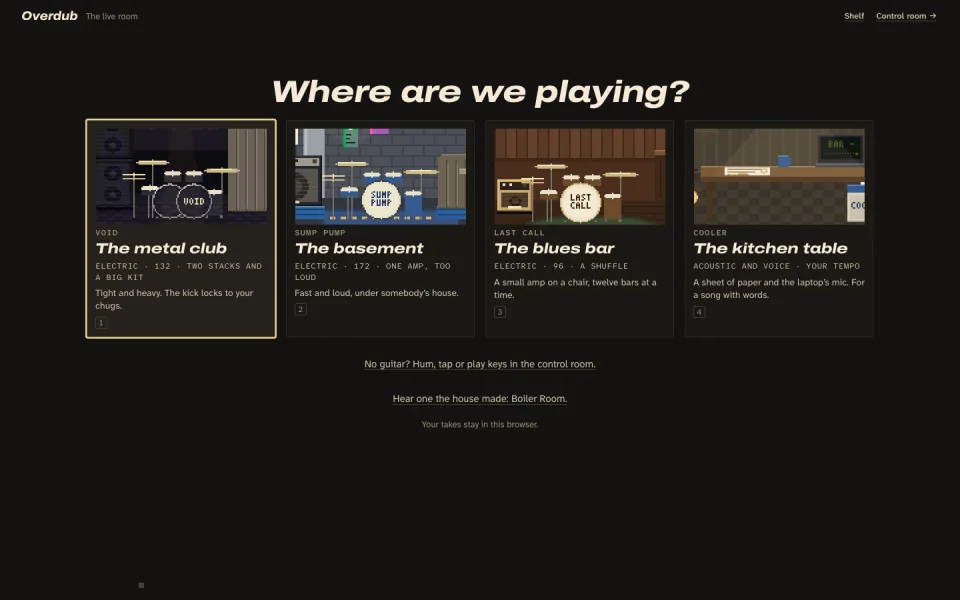
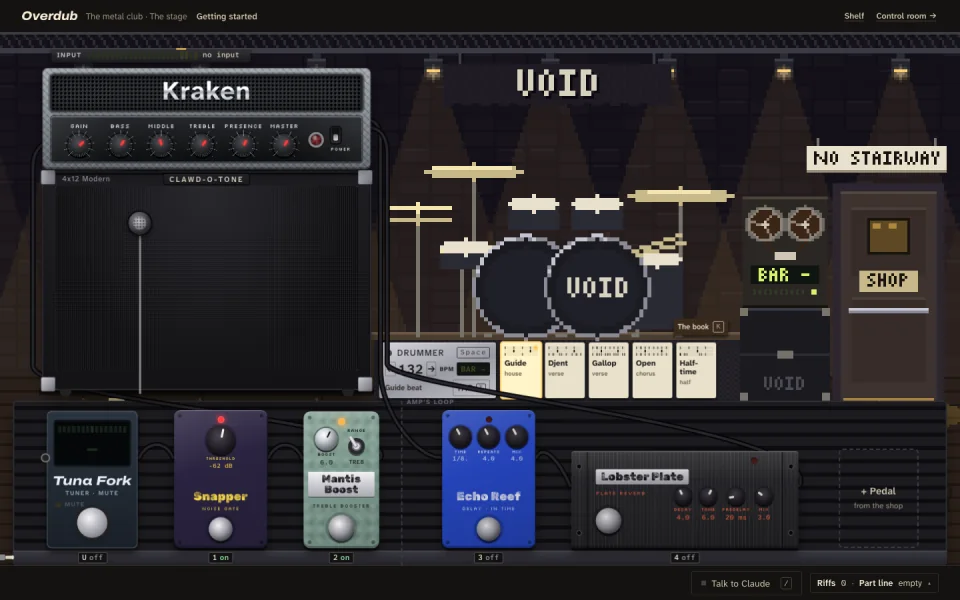
Guide, README and the landing: the guitar room, as it is
The guide still told a musician about four places, the soundcheck column, Lay it out and a band that learns the
take, none of which the door offers now. Its live room section is the guitar room's: the stage and its gear, the
camera, Getting started, the drummer, takes and the part line, the tape and the riffs, Claude on the talkback and the
shop, with the keys the room declares. The README's paragraph says the same in short. The landing's live room
picture was the door with four places; tools/shots.js now walks through the door into the club (ONLY=liveroom shoots
that alone), and the picture, its alt text and caption are the stage.

diff --git a/site/docs/guide.html b/site/docs/guide.html
@@ -45,7 +45,7 @@
       <summary>On this page</summary>
       <nav aria-label="On this page"><ol>
 <li><a href="#your-first-overdub-in-five-minutes">Your first overdub in five minutes</a></li>
-<li><a href="#the-live-room">The live room</a><ol><li><a href="#on-the-stage">On the stage</a></li><li><a href="#the-talkback">The talkback</a></li><li><a href="#the-kitchen-table">The kitchen table</a></li><li><a href="#the-shelf-and-sending">The shelf and sending</a></li></ol></li>
+<li><a href="#the-live-room">The live room</a><ol><li><a href="#the-stage">The stage</a></li><li><a href="#the-drummer">The drummer</a></li><li><a href="#takes-and-the-part-line">Takes and the part line</a></li><li><a href="#the-tape-the-riffs-and-claude">The tape, the riffs and Claude</a></li><li><a href="#the-shop">The shop</a></li><li><a href="#the-shelf-and-sending">The shelf and sending</a></li></ol></li>
 <li><a href="#start-a-song">Start a song</a></li>
 <li><a href="#flip-a-song">Flip a song</a></li>
 <li><a href="#find-anything">Find anything</a></li>
@@ -126,66 +126,62 @@ agent gave. <code>⌘Z</code> undoes the latest edit.
 <strong>Revert all Claude's changes (keep mine)</strong> takes back everything the agent did and leaves your edits alone, and
 <code>⇧⌘Z</code> puts it back, as it does after <strong>Undo</strong> on one of the agent's lines there.</p>
 <h2 id="the-live-room"><a class="h-link" href="#the-live-room">The live room</a></h2>
-<p>The live room is the other side of the glass: you bring a guitar (or an acoustic and your voice), pick a place, count
-in and play, and a band learns your part from the take. Everything in it is the same song, signed the same way:
-<strong>Control room →</strong> at the top right (or <code>G</code>) goes through the glass to the arranger with the song as it is, and <code>G</code>
-in the control room comes back. Your takes stay in this browser.</p>
-<p><strong>Where are we playing?</strong> The door has four places, each with its own band, tempo and amp, drawn in pixels with the
-kick drum's name on it. <code>1</code> to <code>4</code> picks one.</p>
-<ul>
-<li><strong>The metal club</strong> (VOID): an electric at 132 BPM, two stacks and a big kit; the kick locks to your chugs.</li>
-<li><strong>The basement</strong> (SUMP PUMP): an electric at 172 BPM, one amp, fast and loud, with a two-bar count.</li>
-<li><strong>The blues bar</strong> (LAST CALL): an electric at 96 BPM, a small amp and a shuffle, twelve bars at a time.</li>
-<li><strong>The kitchen table</strong> (COOLER): an acoustic and your voice, on the laptop's mic, at your tempo.</li>
-</ul>
-<h3 id="on-the-stage"><a class="h-link" href="#on-the-stage">On the stage</a></h3>
-<ol>
-<li><strong>Soundcheck.</strong> The column beside the stage says what it heard: <strong>Plug in</strong> (an electric wants an interface; the
-laptop's mic is fine at the kitchen table), <strong>Level</strong>, <strong>Tune</strong> (<code>U</code>) and <strong>Line it up</strong> (strum on each of eight
-clicks, so your takes land on the drums). <code>[</code> and <code>]</code> step through the amp's settings. Before the first take,
-<code>←</code> <code>→</code> move the drummer's tempo (<code>⇧</code> for ten), and <code>T</code> four times taps it.</li>
-<li><strong>Count me in.</strong> <code>Space</code> counts you in and the tape rolls. Play the part as many times round as you like; <code>Space</code>
-again is <em>That's a take</em>. It lands as a part (a verse, say), and the talkback says what went in (&quot;Verse is in: 8
-bars at 132. The band's learning it.&quot;): the drums and bass learn its rhythm and its notes, and play it back with
-you. <code>⌘Z</code> takes the take and the band's learning out together; <code>⇧⌘Z</code> puts both back.</li>
-<li><strong>The other side.</strong> A heavy part is played twice, once per speaker. At the metal club, after each part's first
-take, <code>Space</code> offers <em>The other side</em>; at the basement it's offered once, after the second part. <code>D</code> plays the
-other side of the selected part at either, and you play it again.</li>
-<li><strong>Next part.</strong> <code>N</code>, or <strong>+ Next part</strong> under the cards, counts you into the next one (a chorus, then a bridge).
-Once a part is in, <code>Space</code> offers <em>Next part</em> too.</li>
-<li><strong>Lay it out.</strong> Once two parts are in, <code>Space</code> offers <em>Lay it out</em>: the parts as a song, with how many bars and
-how long. <strong>Hear it all</strong> (<code>Home</code> then <code>Enter</code>) plays it top to bottom; <code>Enter</code> alone plays from the selected card.</li>
-</ol>
-<p>Each part is a card. <code>←</code> <code>→</code> select one (after the first take), <code>↑</code> <code>↓</code> pick which of its takes plays, and its menu
-has, one step each: <strong>Again</strong> (<code>R</code>), <strong>The other side</strong> (<code>D</code>, not at the blues bar), <strong>Another feel</strong> (<code>F</code>),
-<strong>Simpler</strong> · <strong>Busier</strong>, <strong>Softer</strong> · <strong>Louder</strong>, <strong>×2</strong> (<code>X</code>), <strong>Round and round</strong> (<code>L</code>, the part on a loop:
-<code>Space</code> hears it, <code>R</code> records it), <strong>Earlier</strong> · <strong>Later</strong> (<code>⌥←</code> · <code>⌥→</code>) and <strong>Remove</strong> (<code>⌫</code>; <code>⌘Z</code> brings it back).
-<code>Esc</code> in a take is <em>Not that one</em>: nothing goes in the song, and it's in Capture; <code>⇧R</code> puts it in after all.</p>
-<p>A page-turner pedal works the stage: <code>PageDown</code> is the offered move (the same as <code>Space</code>) and <code>PageUp</code> is <strong>Again</strong>.
-So does a sustain pedal on a MIDI keyboard (CC 64), as <code>Space</code>, while no instrument track is armed.</p>
-<h3 id="the-talkback"><a class="h-link" href="#the-talkback">The talkback</a></h3>
-<p>The line under the stage is the house talking, unsigned. <code>/</code> talks to Claude: what you type goes to the agent, and
-what it says back comes through the talkback, signed <strong>Claude</strong>, in cool. While you're playing a take, Claude's tools
-wait until you stop.</p>
-<h3 id="the-kitchen-table"><a class="h-link" href="#the-kitchen-table">The kitchen table</a></h3>
-<p>The kitchen table records an acoustic and your voice on one mic (the laptop's, a mic on the interface, or a mic and a
-pickup). It asks whether you're on headphones (<code>Y</code> · <code>N</code>): on speakers the band never plays during a take.</p>
-<ul>
-<li><strong>The paper.</strong> A sheet of words and chords, typed or pasted (ChordPro, or chords over the words), one line at a
-time; the pencil tick follows the playhead. Each line is signed by whoever wrote it; yours and the house's carry no
-name.</li>
-<li><strong>The work tape.</strong> <strong>Start the tape</strong> (<code>Space</code>) and play the song as you would at the table, at your own time. The
-band reads it: the tempo (<strong>On the beat</strong> keeps it), the parts and the chords. On headphones, <strong>Count me in</strong> gives
-one bar of sticks and a shaker on the song's time instead.</li>
-<li><strong>The players.</strong> Then the band is offered one player at a time, where each would play: <strong>A shaker in the chorus</strong>,
-<strong>The cajón under the verses</strong>, <strong>The bass from the first chorus</strong>, <strong>Strings in the bridge</strong>. <strong>Keep it</strong> or
-<strong>No thanks</strong>. <code>↑</code> <code>↓</code> hear the takes, and <strong>Use this one</strong> picks the master.</li>
-</ul>
+<p>The live room is the other side of the glass: you bring a guitar and an interface, the stage is the screen, and the
+rig on it is the song's. Everything in it is the same song, signed the same way: <strong>Control room →</strong> at the top right
+(or <code>⌘G</code>) goes through the glass to the arranger with the song as it is, and <code>G</code> in the control room comes back. Your
+takes stay in this browser.</p>
+<p><strong>Where are we playing?</strong> The door offers the metal club (VOID: an electric at 132 BPM, one stack and a big kit),
+and the control room for anyone without a guitar. <code>1</code> walks in.</p>
+<h3 id="the-stage"><a class="h-link" href="#the-stage">The stage</a></h3>
+<p>The screen is the stage seen from the front, and everything on it is a real control: the amp head on its cab (turn a
+knob: drag it, scroll it, or focus it and use the arrow keys; double-click puts it back), the pedalboard along the
+front (<code>1</code>–<code>8</code> stomp the pedals, a drag along the board reorders them, × puts one back in the case, <strong>+ Pedal</strong> opens
+the shop's case), the input meter on the head, the drummer on the riser and the tape machine by the door. Every change
+is one step by you on both sides of the stack, and <code>⌘Z</code> takes it back. Edits go to this song's copy of the stack;
+nothing goes to the rack unless you say so.</p>
+<p>The camera goes closer: <code>H</code> the head (every knob), <code>C</code> the cab (which cab, the mics on the cones, their distance and
+angle, a second mic), <code>K</code> the kit and the drummer's book, <code>B</code> the board, <code>U</code> the tuner, <code>G</code> the tape. <code>Esc</code> steps back
+one at a time, and never further than the stage.</p>
+<p><strong>Getting started</strong> (the button at the top) comes up by itself the first time, in the room: <strong>Plug in</strong> (the cable
+goes into the first pedal's jack, and the meter on the head wants your hardest strum between −12 and −6 dBFS),
+<strong>Tune</strong> (Tuna Fork, first on the board: <code>U</code> stomps it and mutes you while it's on), <strong>Timing</strong> (the drummer clicks
+their sticks eight times and you strum on each, so takes land on the beat), <strong>Your sound</strong> (keep the club's stack, or
+go through the door), and a short tour. <code>Esc</code> pauses it; the button carries on where you left it.</p>
+<h3 id="the-drummer"><a class="h-link" href="#the-drummer">The drummer</a></h3>
+<p><code>Space</code> starts the drummer and stops them: a plain guide beat by default, played where the song has no drums of its
+own, never kept. The beat cards on the riser are this song's few (<code>[</code> <code>]</code> or a click picks one); <code>K</code> opens the book,
+every groove the drummer knows, where you edit the cards on the riser, pin a new one or play one now. <code>←</code> <code>→</code> move
+the tempo (<code>⇧</code> for ten) until there's a take, and <code>T</code> taps it. Nothing else plays unless you ask: no bass, no fills.</p>
+<h3 id="takes-and-the-part-line"><a class="h-link" href="#takes-and-the-part-line">Takes and the part line</a></h3>
+<p><code>R</code> records the selected part, or a new one at the end, counted in by a bar of sticks (<code>⇧K</code> turns the count-in off).
+The room dims and says what's happening: <code>Space</code> stops, <code>R</code> starts again, <code>Esc</code> tosses it. A take doesn't stop at the
+part's end: play past it, and what rings on is kept under the next part. Then it plays back once: <strong>Keep</strong> (<code>Enter</code>),
+<strong>Toss</strong> (<code>⌫</code>) or <strong>Again</strong> (<code>R</code>), and the handles trim it on the bar grid. <code>↑</code> <code>↓</code> pick which kept take plays. <code>D</code>
+records the other side of the part on the same rig, against your first, and Keep plays both, wide.</p>
+<p>The part line (<code>L</code> puts it up over the board) is the song in order: <code>Enter</code> plays from the selected part, <code>Home</code> from the top,
+<code>N</code> adds a part after it and <code>⇧N</code> one before (an intro), <code>⌥←</code> <code>⌥→</code> or a drag move it, <code>⌫</code> deletes it, and <code>⌘Z</code> puts
+any of it back. Played top to bottom, the song puts <strong>Send</strong> at the top.</p>
+<h3 id="the-tape-the-riffs-and-claude"><a class="h-link" href="#the-tape-the-riffs-and-claude">The tape, the riffs and Claude</a></h3>
+<p>The tape is always rolling, quietly: a faint line at the left of the drawer <code>L</code> puts up. When something was the one, <code>G</code> (or the
+tape machine) opens the last minute on the drummer's bar lines with the last thing you played picked; the handles
+trim it (<code>B</code> snaps them to bars), and <code>Enter</code> keeps it as a riff. Riffs go in the tray beside the part line: a click
+hears one through your rig, a drag puts it on the part line, <code>Enter</code> puts it after the selected part. <code>⇧L</code> is the
+library, every song's riffs, each tagged with its song, to search and filter.</p>
+<p><code>/</code> talks through the glass to the agent you started in the control room: what you type goes to Claude, and what it
+says back comes through the talkback, signed <strong>Claude</strong>, in cool. When Claude is connected from outside (claude.ai or
+Claude Code), the header says so and what it says comes through the talkback the same way. Whatever it changes is
+signed too, one step <code>⌘Z</code> takes back.</p>
+<h3 id="the-shop"><a class="h-link" href="#the-shop">The shop</a></h3>
+<p>The door under NO STAIRWAY (<code>S</code>) is the shop: the amp wall in sections (clean, crunch, weird, high gain, bass; <code>A</code>),
+the pedal case in drawers by type (<code>P</code>, <code>[</code> <code>]</code> between drawers), and your stack big in the try-out corner (<code>H</code> the
+head, <code>C</code> the cab). Look at something to read its card; hold the look and you're hearing it; a click or <code>Enter</code>
+carries it onto your stack. <strong>Save to rack</strong> keeps a stack under a name, and the rack loads one back into the song in
+one step (the song keeps its own copy). <code>S</code> goes back to the stage.</p>
 <h3 id="the-shelf-and-sending"><a class="h-link" href="#the-shelf-and-sending">The shelf and sending</a></h3>
 <p><strong>Shelf</strong> at the top right shows the room's songs as tape boxes, newest first, each with its label, its parts, its
 day and its engineer's note. The die on an untitled box offers three titles. A box opens its song on the stage, and
 <strong>Take it off the shelf</strong> asks first.</p>
-<p><strong>Send</strong> (on a box, or <strong>Send a mix</strong> at the kitchen table) has two choices. <strong>Send a mix</strong> is the song as a WAV,
+<p><strong>Send</strong> (on a box, or at the top once the song's been heard top to bottom) has two choices. <strong>Send a mix</strong> is the song as a WAV,
 through your device's share sheet where it has one, else a download. <strong>Send the song</strong> is one <code>.overdub.zip</code>: the
 song and its recordings. <code>⌘O</code> opens it again, here or in another browser, and puts the recordings back; it's also
 the shelf's backup. There's no share link from the room: a link carries the notes and the devices and leaves your

diff --git a/tools/shots.js b/tools/shots.js
@@ -3,8 +3,9 @@
 //   rack.webp     the rack close up, ending on Claude's Tidal Cathedral (an agent-built device face)
 //   sketch.webp   the Sketch panel after a (fake-mic) hum of A3 C4 E4: the spiral and the notes it wrote
 //   history.webp  the History panel after a few edits by you and by Claude: warm is you, cool is the agent
-//   liveroom.webp the live room's door, Where are we playing?, the first screen a first visit sees (?room)
+//   liveroom.webp the live room: the metal club's stage (the guitar room), walked into from the door (?room)
 // Each is written at 1440 and 960 wide (name.webp, name-960.webp) into site/assets/, and kept under ~400 KB.
+// ONLY=liveroom (or studio, sketch: comma-separated) shoots just those.
 // Needs ffmpeg or cwebp on PATH. Raw PNGs land in tools/.out/shots/.
 import fs from 'node:fs';
 import path from 'node:path';
@@ -68,8 +69,10 @@ async function boot(opts = {}, layout = null) {
 const shot = async (page, name, clip) => { const f = path.join(RAW, name + '.png'); await page.screenshot({ path: f, clip }); return f; };
 
 const errs = [];
+const ONLY = (process.env.ONLY || '').split(',').map((x) => x.trim()).filter(Boolean);
+const want = (k) => !ONLY.length || ONLY.includes(k);
 // ---- (a) the whole studio, (b) the rack, (d) history
-{
+if (want('studio')) {
   const { page, browser, url, errors, close } = await boot({}, { leftW: 236, rightW: 400, bottomH: 330, open: { left: false, right: true, bottom: true }, tabs: {} });
   // The demo agent (scripted, real tools) takes a turn so the agent panel shows real work. Optional: skip if it stalls.
   const said = await page.evaluate(async () => {
@@ -134,7 +137,7 @@ const errs = [];
   await close();
 }
 // ---- (c) Sketch, after a hum through the fake mic
-{
+if (want('sketch')) {
   const wav = path.join(RAW, 'hum.wav');
   const secs = humWav(wav);
   const { page, errors, close } = await boot({ fakeAudio: wav }, { leftW: 236, rightW: 380, bottomH: 470, open: { left: false, right: true, bottom: true }, tabs: {} });
@@ -150,12 +153,16 @@ const errs = [];
   errs.push(...errors);
   await close();
 }
-// ---- (e) the live room's door (?room opens it on a new song, under webdriver too)
-{
+// ---- (e) the live room: through the door (?room opens it on a new song, under webdriver too) into the metal club,
+// the stage as it stands (Getting started comes up by itself only in a visitor's browser, never under webdriver)
+if (want('liveroom')) {
   const { page, errors, close } = await open('/app/', { width: 1440, height: 900, query: 'room' });
   await page.waitForSelector('html[data-ready="1"]', { timeout: 30000 });
   await page.waitForFunction(() => window.overdub?.liveRoom?.isOpen?.() && document.querySelector('.lrd-crop'), null, { timeout: 20000 });
-  await page.waitForTimeout(1200);
+  await page.waitForTimeout(600);
+  await page.keyboard.press('Digit1');
+  await page.waitForFunction(() => window.overdub.ui.state.liveRoom.screen === 'guitar' && document.querySelector('.gr-r-head'), null, { timeout: 20000 });
+  await page.waitForTimeout(1500);
   encode('liveroom', await shot(page, 'liveroom'));
   errs.push(...errors);
   await close();

diff --git a/site/index.html b/site/index.html
@@ -88,10 +88,10 @@
 <section class="studio" aria-labelledby="studio-title">
   <div class="wrap">
     <h2 id="studio-title" class="sec-title">This is the studio, running.</h2>
-    <p class="section-lede">Every picture here is a screenshot of Overdub as it runs today. It opens in the live room, where you pick a place and play; the control room behind it, here open on Night Shift, the first of the fifteen songs it ships with, is one press away. It runs in your browser, on a computer or a phone, with nothing to install.</p>
+    <p class="section-lede">Every picture here is a screenshot of Overdub as it runs today. It opens in the live room, where you walk onto a stage and play; the control room behind it, here open on Night Shift, the first of the fifteen songs it ships with, is one press away. It runs in your browser, on a computer or a phone, with nothing to install.</p>
     <figure class="shot shot--main">
-      <div class="shot-frame"><picture><source type="image/webp" srcset="/site/assets/liveroom-960.webp 960w, /site/assets/liveroom.webp 1440w" sizes="(max-width: 1180px) 100vw, 1100px"><img src="/site/assets/liveroom.webp" width="1440" height="900" alt="The live room's door: Where are we playing? Four places drawn in pixels, each with its kick drum's name: the metal club (VOID), the basement (SUMP PUMP), the blues bar (LAST CALL) and the kitchen table (COOLER), and under them a link to hum, tap or play keys in the control room" loading="lazy" decoding="async"></picture></div>
-      <figcaption>The first screen: the live room. Three places for an electric guitar and a kitchen table for an acoustic and your voice. You count in, play your part round as long as you like, and the band learns it from the take. The control room is one press away.</figcaption>
+      <div class="shot-frame"><picture><source type="image/webp" srcset="/site/assets/liveroom-960.webp 960w, /site/assets/liveroom.webp 1440w" sizes="(max-width: 1180px) 100vw, 1100px"><img src="/site/assets/liveroom.webp" width="1440" height="900" alt="The live room's metal club, seen from the front: the Kraken amp head on a 4x12 cab, the drummer's kit on a riser with five beat cards, a tape machine and the shop's door under a NO STAIRWAY sign, and a pedalboard across the front: Tuna Fork, Snapper, Mantis Boost, Echo Reef and Lobster Plate" loading="lazy" decoding="async"></picture></div>
+      <figcaption>The first screen: the live room. The stage is the screen, and everything on it is a real control: the amp and its cab, the pedals, the drummer's beats. The tape is always rolling, and the control room is one press away.</figcaption>
     </figure>
     <figure class="shot shot--main">
       <div class="shot-frame shot-frame--film" data-video-slot>

diff --git a/docs/GUIDE.md b/docs/GUIDE.md
@@ -56,66 +56,72 @@ agent gave. `⌘Z` undoes the latest edit.
 
 ## The live room
 
-The live room is the other side of the glass: you bring a guitar (or an acoustic and your voice), pick a place, count
-in and play, and a band learns your part from the take. Everything in it is the same song, signed the same way:
-**Control room →** at the top right (or `G`) goes through the glass to the arranger with the song as it is, and `G`
-in the control room comes back. Your takes stay in this browser.
+The live room is the other side of the glass: you bring a guitar and an interface, the stage is the screen, and the
+rig on it is the song's. Everything in it is the same song, signed the same way: **Control room →** at the top right
+(or `⌘G`) goes through the glass to the arranger with the song as it is, and `G` in the control room comes back. Your
+takes stay in this browser.
 
-**Where are we playing?** The door has four places, each with its own band, tempo and amp, drawn in pixels with the
-kick drum's name on it. `1` to `4` picks one.
+**Where are we playing?** The door offers the metal club (VOID: an electric at 132 BPM, one stack and a big kit),
+and the control room for anyone without a guitar. `1` walks in.
 
-- **The metal club** (VOID): an electric at 132 BPM, two stacks and a big kit; the kick locks to your chugs.
-- **The basement** (SUMP PUMP): an electric at 172 BPM, one amp, fast and loud, with a two-bar count.
-- **The blues bar** (LAST CALL): an electric at 96 BPM, a small amp and a shuffle, twelve bars at a time.
-- **The kitchen table** (COOLER): an acoustic and your voice, on the laptop's mic, at your tempo.
+### The stage
 
-### On the stage
+The screen is the stage seen from the front, and everything on it is a real control: the amp head on its cab (turn a
+knob: drag it, scroll it, or focus it and use the arrow keys; double-click puts it back), the pedalboard along the
+front (`1`–`8` stomp the pedals, a drag along the board reorders them, × puts one back in the case, **+ Pedal** opens
+the shop's case), the input meter on the head, the drummer on the riser and the tape machine by the door. Every change
+is one step by you on both sides of the stack, and `⌘Z` takes it back. Edits go to this song's copy of the stack;
+nothing goes to the rack unless you say so.
 
-1. **Soundcheck.** The column beside the stage says what it heard: **Plug in** (an electric wants an interface; the
-   laptop's mic is fine at the kitchen table), **Level**, **Tune** (`U`) and **Line it up** (strum on each of eight
-   clicks, so your takes land on the drums). `[` and `]` step through the amp's settings. Before the first take,
-   `←` `→` move the drummer's tempo (`⇧` for ten), and `T` four times taps it.
-2. **Count me in.** `Space` counts you in and the tape rolls. Play the part as many times round as you like; `Space`
-   again is *That's a take*. It lands as a part (a verse, say), and the talkback says what went in ("Verse is in: 8
-   bars at 132. The band's learning it."): the drums and bass learn its rhythm and its notes, and play it back with
-   you. `⌘Z` takes the take and the band's learning out together; `⇧⌘Z` puts both back.
-3. **The other side.** A heavy part is played twice, once per speaker. At the metal club, after each part's first
-   take, `Space` offers *The other side*; at the basement it's offered once, after the second part. `D` plays the
-   other side of the selected part at either, and you play it again.
-4. **Next part.** `N`, or **+ Next part** under the cards, counts you into the next one (a chorus, then a bridge).
-   Once a part is in, `Space` offers *Next part* too.
-5. **Lay it out.** Once two parts are in, `Space` offers *Lay it out*: the parts as a song, with how many bars and
-   how long. **Hear it all** (`Home` then `Enter`) plays it top to bottom; `Enter` alone plays from the selected card.
+The camera goes closer: `H` the head (every knob), `C` the cab (which cab, the mics on the cones, their distance and
+angle, a second mic), `K` the kit and the drummer's book, `B` the board, `U` the tuner, `G` the tape. `Esc` steps back
+one at a time, and never further than the stage.
 
-Each part is a card. `←` `→` select one (after the first take), `↑` `↓` pick which of its takes plays, and its menu
-has, one step each: **Again** (`R`), **The other side** (`D`, not at the blues bar), **Another feel** (`F`),
-**Simpler** · **Busier**, **Softer** · **Louder**, **×2** (`X`), **Round and round** (`L`, the part on a loop:
-`Space` hears it, `R` records it), **Earlier** · **Later** (`⌥←` · `⌥→`) and **Remove** (`⌫`; `⌘Z` brings it back).
-`Esc` in a take is *Not that one*: nothing goes in the song, and it's in Capture; `⇧R` puts it in after all.
+**Getting started** (the button at the top) comes up by itself the first time, in the room: **Plug in** (the cable
+goes into the first pedal's jack, and the meter on the head wants your hardest strum between −12 and −6 dBFS),
+**Tune** (Tuna Fork, first on the board: `U` stomps it and mutes you while it's on), **Timing** (the drummer clicks
+their sticks eight times and you strum on each, so takes land on the beat), **Your sound** (keep the club's stack, or
+go through the door), and a short tour. `Esc` pauses it; the button carries on where you left it.
 
-A page-turner pedal works the stage: `PageDown` is the offered move (the same as `Space`) and `PageUp` is **Again**.
-So does a sustain pedal on a MIDI keyboard (CC 64), as `Space`, while no instrument track is armed.
+### The drummer
 
-### The talkback
+`Space` starts the drummer and stops them: a plain guide beat by default, played where the song has no drums of its
+own, never kept. The beat cards on the riser are this song's few (`[` `]` or a click picks one); `K` opens the book,
+every groove the drummer knows, where you edit the cards on the riser, pin a new one or play one now. `←` `→` move
+the tempo (`⇧` for ten) until there's a take, and `T` taps it. Nothing else plays unless you ask: no bass, no fills.
 
-The line under the stage is the house talking, unsigned. `/` talks to Claude: what you type goes to the agent, and
-what it says back comes through the talkback, signed **Claude**, in cool. While you're playing a take, Claude's tools
-wait until you stop.
+### Takes and the part line
 
-### The kitchen table
+`R` records the selected part, or a new one at the end, counted in by a bar of sticks (`⇧K` turns the count-in off).
+The room dims and says what's happening: `Space` stops, `R` starts again, `Esc` tosses it. A take doesn't stop at the
+part's end: play past it, and what rings on is kept under the next part. Then it plays back once: **Keep** (`Enter`),
+**Toss** (`⌫`) or **Again** (`R`), and the handles trim it on the bar grid. `↑` `↓` pick which kept take plays. `D`
+records the other side of the part on the same rig, against your first, and Keep plays both, wide.
 
-The kitchen table records an acoustic and your voice on one mic (the laptop's, a mic on the interface, or a mic and a
-pickup). It asks whether you're on headphones (`Y` · `N`): on speakers the band never plays during a take.
+The part line (`L` puts it up over the board) is the song in order: `Enter` plays from the selected part, `Home` from the top,
+`N` adds a part after it and `⇧N` one before (an intro), `⌥←` `⌥→` or a drag move it, `⌫` deletes it, and `⌘Z` puts
+any of it back. Played top to bottom, the song puts **Send** at the top.
 
-- **The paper.** A sheet of words and chords, typed or pasted (ChordPro, or chords over the words), one line at a
-  time; the pencil tick follows the playhead. Each line is signed by whoever wrote it; yours and the house's carry no
-  name.
-- **The work tape.** **Start the tape** (`Space`) and play the song as you would at the table, at your own time. The
-  band reads it: the tempo (**On the beat** keeps it), the parts and the chords. On headphones, **Count me in** gives
-  one bar of sticks and a shaker on the song's time instead.
-- **The players.** Then the band is offered one player at a time, where each would play: **A shaker in the chorus**,
-  **The cajón under the verses**, **The bass from the first chorus**, **Strings in the bridge**. **Keep it** or
-  **No thanks**. `↑` `↓` hear the takes, and **Use this one** picks the master.
+### The tape, the riffs and Claude
+
+The tape is always rolling, quietly: a faint line at the left of the drawer `L` puts up. When something was the one, `G` (or the
+tape machine) opens the last minute on the drummer's bar lines with the last thing you played picked; the handles
+trim it (`B` snaps them to bars), and `Enter` keeps it as a riff. Riffs go in the tray beside the part line: a click
+hears one through your rig, a drag puts it on the part line, `Enter` puts it after the selected part. `⇧L` is the
+library, every song's riffs, each tagged with its song, to search and filter.
+
+`/` talks through the glass to the agent you started in the control room: what you type goes to Claude, and what it
+says back comes through the talkback, signed **Claude**, in cool. When Claude is connected from outside (claude.ai or
+Claude Code), the header says so and what it says comes through the talkback the same way. Whatever it changes is
+signed too, one step `⌘Z` takes back.
+
+### The shop
+
+The door under NO STAIRWAY (`S`) is the shop: the amp wall in sections (clean, crunch, weird, high gain, bass; `A`),
+the pedal case in drawers by type (`P`, `[` `]` between drawers), and your stack big in the try-out corner (`H` the
+head, `C` the cab). Look at something to read its card; hold the look and you're hearing it; a click or `Enter`
+carries it onto your stack. **Save to rack** keeps a stack under a name, and the rack loads one back into the song in
+one step (the song keeps its own copy). `S` goes back to the stage.
 
 ### The shelf and sending
 
@@ -123,7 +129,7 @@ pickup). It asks whether you're on headphones (`Y` · `N`): on speakers the band
 day and its engineer's note. The die on an untitled box offers three titles. A box opens its song on the stage, and
 **Take it off the shelf** asks first.
 
-**Send** (on a box, or **Send a mix** at the kitchen table) has two choices. **Send a mix** is the song as a WAV,
+**Send** (on a box, or at the top once the song's been heard top to bottom) has two choices. **Send a mix** is the song as a WAV,
 through your device's share sheet where it has one, else a download. **Send the song** is one `.overdub.zip`: the
 song and its recordings. `⌘O` opens it again, here or in another browser, and puts the recordings back; it's also
 the shelf's backup. There's no share link from the room: a link carries the notes and the devices and leaves your

diff --git a/README.md b/README.md
@@ -20,11 +20,14 @@ work too (`tools/compat-test.js` and `tools/phone-test.js` check them).
 
 ## What's in the studio
 
-- **The live room.** The studio opens on a door: *Where are we playing?* Pick the metal club, the basement or the
-  blues bar for an electric guitar, or the kitchen table for an acoustic and your voice. Count in, play a part round
-  as long as you like, and the drummer and the bass learn it from the take; the parts lay out as a song. It's the same
-  song as the control room behind the glass (`G`), signed the same way, and **Send the song** puts it and its
-  recordings in one `.overdub.zip` that opens again anywhere. `?studio` goes straight to the control room.
+- **The live room.** The studio opens on a door: *Where are we playing?* The metal club is a stage seen from the
+  front, for an electric guitar: the amp head on its cab and the pedalboard are real controls (the song's rig), a
+  drummer plays a guide beat on the riser, and the camera goes closer to the head, the cab and its mics, the kit, the
+  board, the tuner and the tape. Takes are counted in, kept or tossed, and both sides of a part go on the same rig;
+  the tape is always rolling, so the riff you just played can be kept; the shop through the door has the amps and
+  pedals. It's the same song as the control room behind the glass (`⌘G`), signed the same way, and **Send the song**
+  puts it and its recordings in one `.overdub.zip` that opens again anywhere. `?studio` goes straight to the control
+  room.
 - **A real DAW.** Tracks, clips, an arranger with sections and loops, a piano roll, a step grid for drums, a mixer and
   device racks. Everything is synthesized in the page. Sections duplicate with their clips, bars go in and out across
   the whole song, and clips repeat and split. Fifteen demo songs come with it: Night Shift (lo-fi), Dust Jacket
